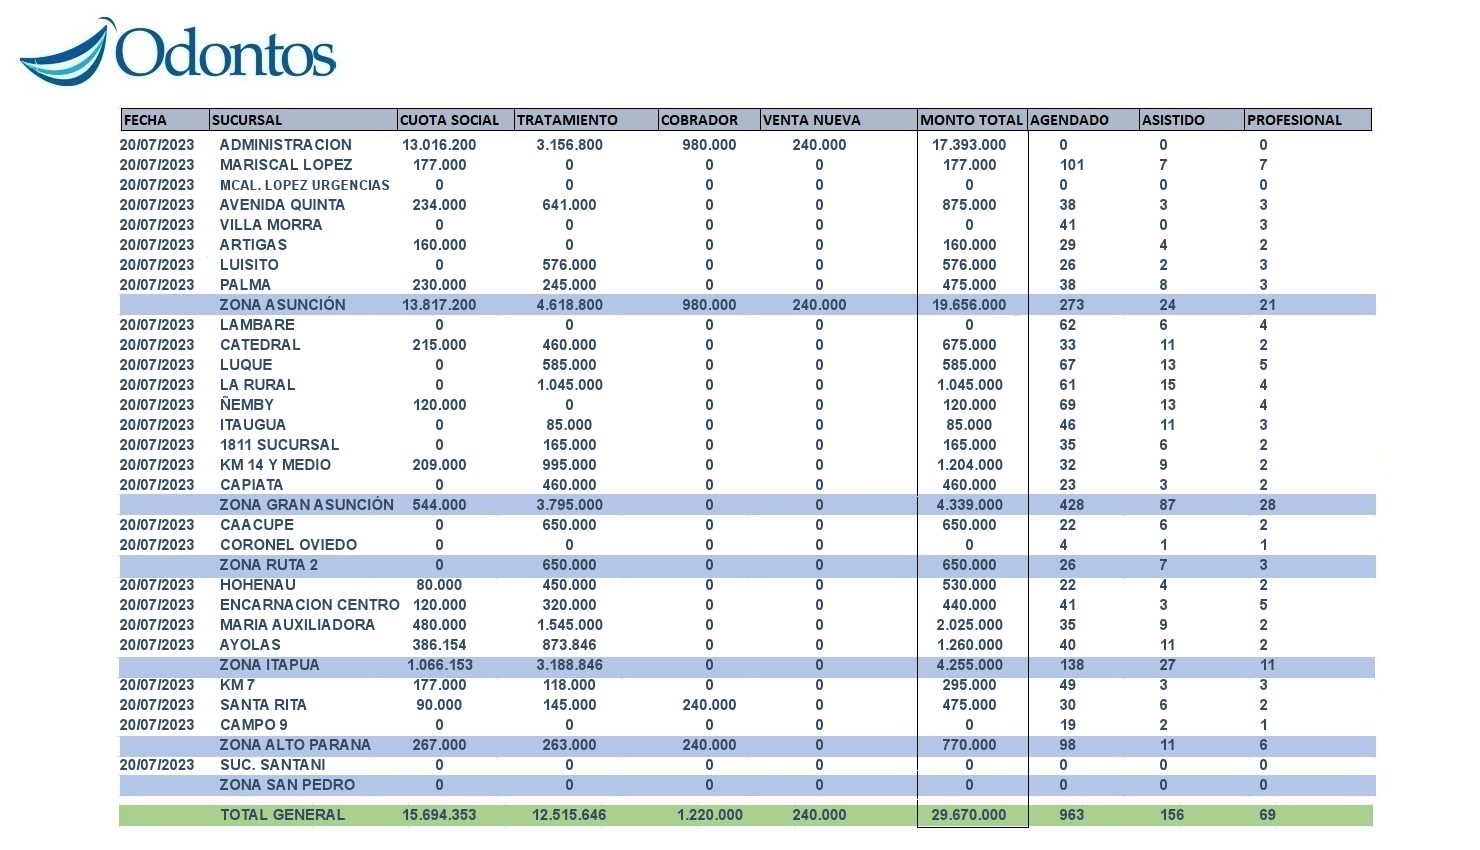
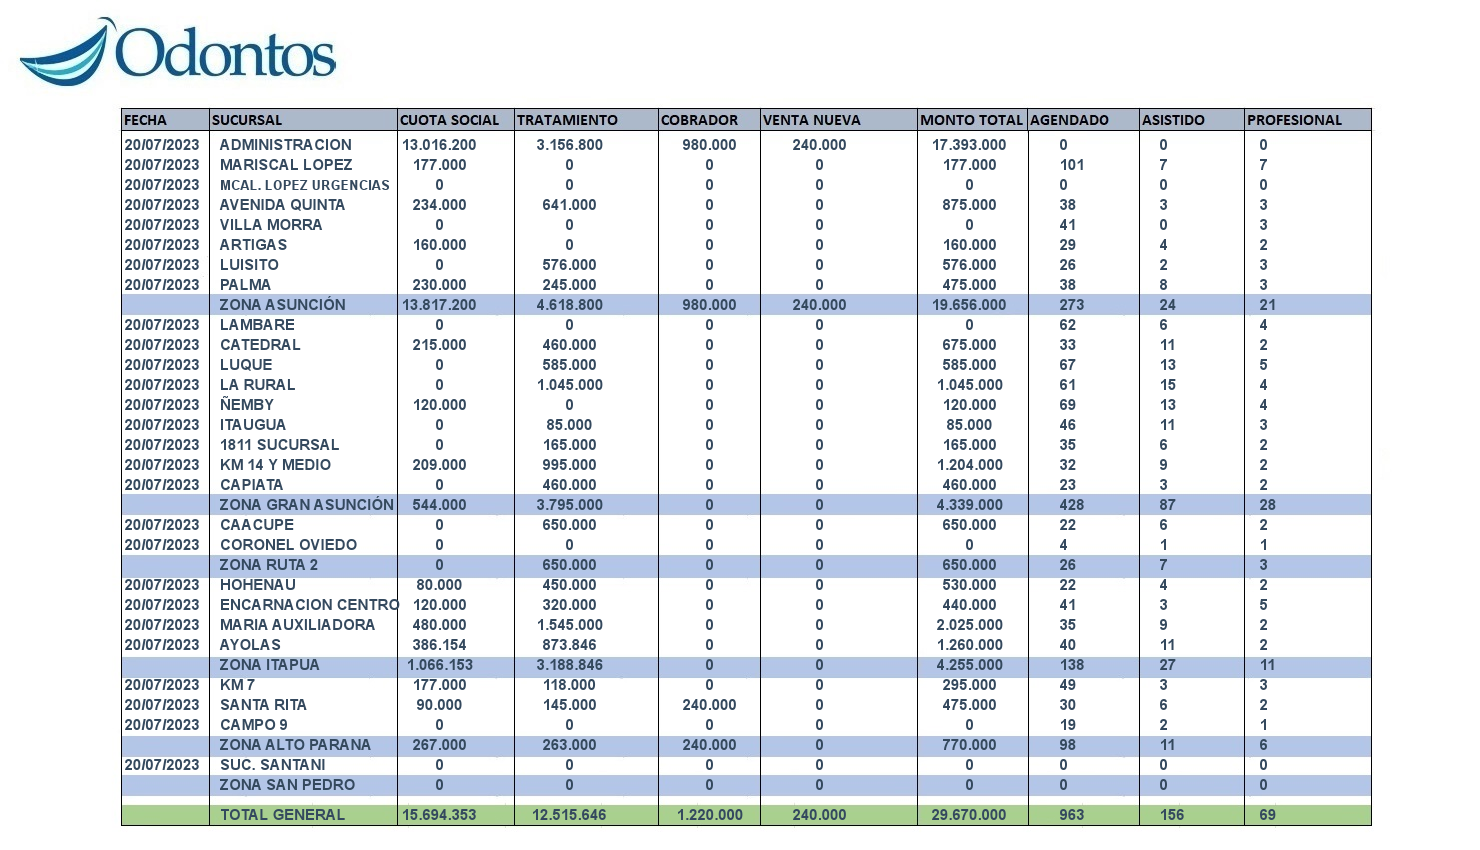
ready to use

diff --git a/src/routes/reporte_cierre.js b/src/routes/reporte_cierre.js
@@ -54,7 +54,6 @@ var tiempoRetrasoEnvios = 15000;
 let numerosDestinatarios = [
   {NOMBRE: 'Ale Corpo', NUMERO: '595974107341'},
   {NOMBRE: 'José Aquino', NUMERO: '595985604619'},
-  {NOMBRE: 'Alejandro Grance', NUMERO: '595986153301'},
   {NOMBRE: 'Mirna Quiroga', NUMERO: '595975437933'},
   ]
 
@@ -511,7 +510,7 @@ module.exports = (app) => {
     }, tiempoRetrasoPGSQL);
   }
 
-  iniciarEnvio();
+  //iniciarEnvio();
 
   function sumarMontos(los_reportes) {
     let arrayAsuncion = [
@@ -701,7 +700,7 @@ module.exports = (app) => {
       context.drawImage(image, 0, 0, width, height);
 
       // Eje X de cada celda - Cierres
-      let ejeXfecha = 120;
+      let ejeXfecha = 125;
       let ejeXsucu = 220;
       let ejeXcuota = 440;
       let ejeXtrata = 570;
